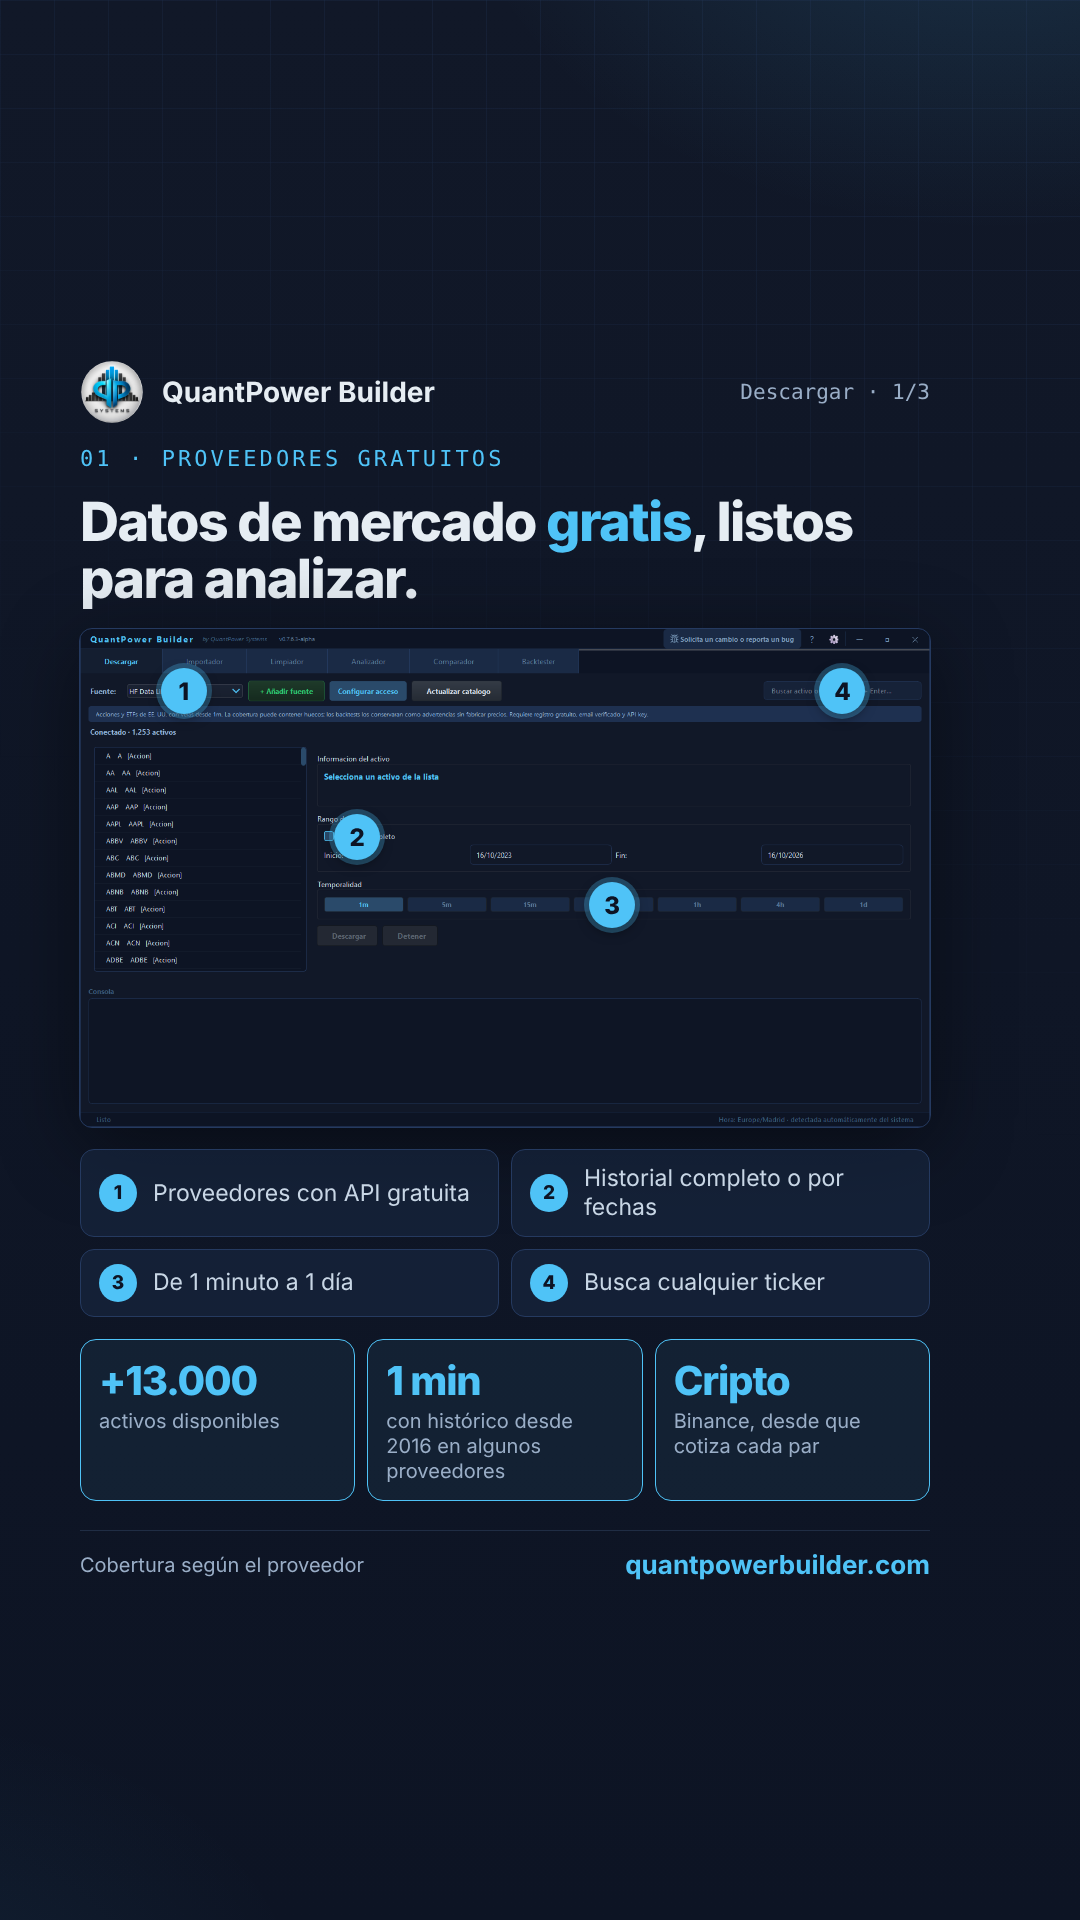
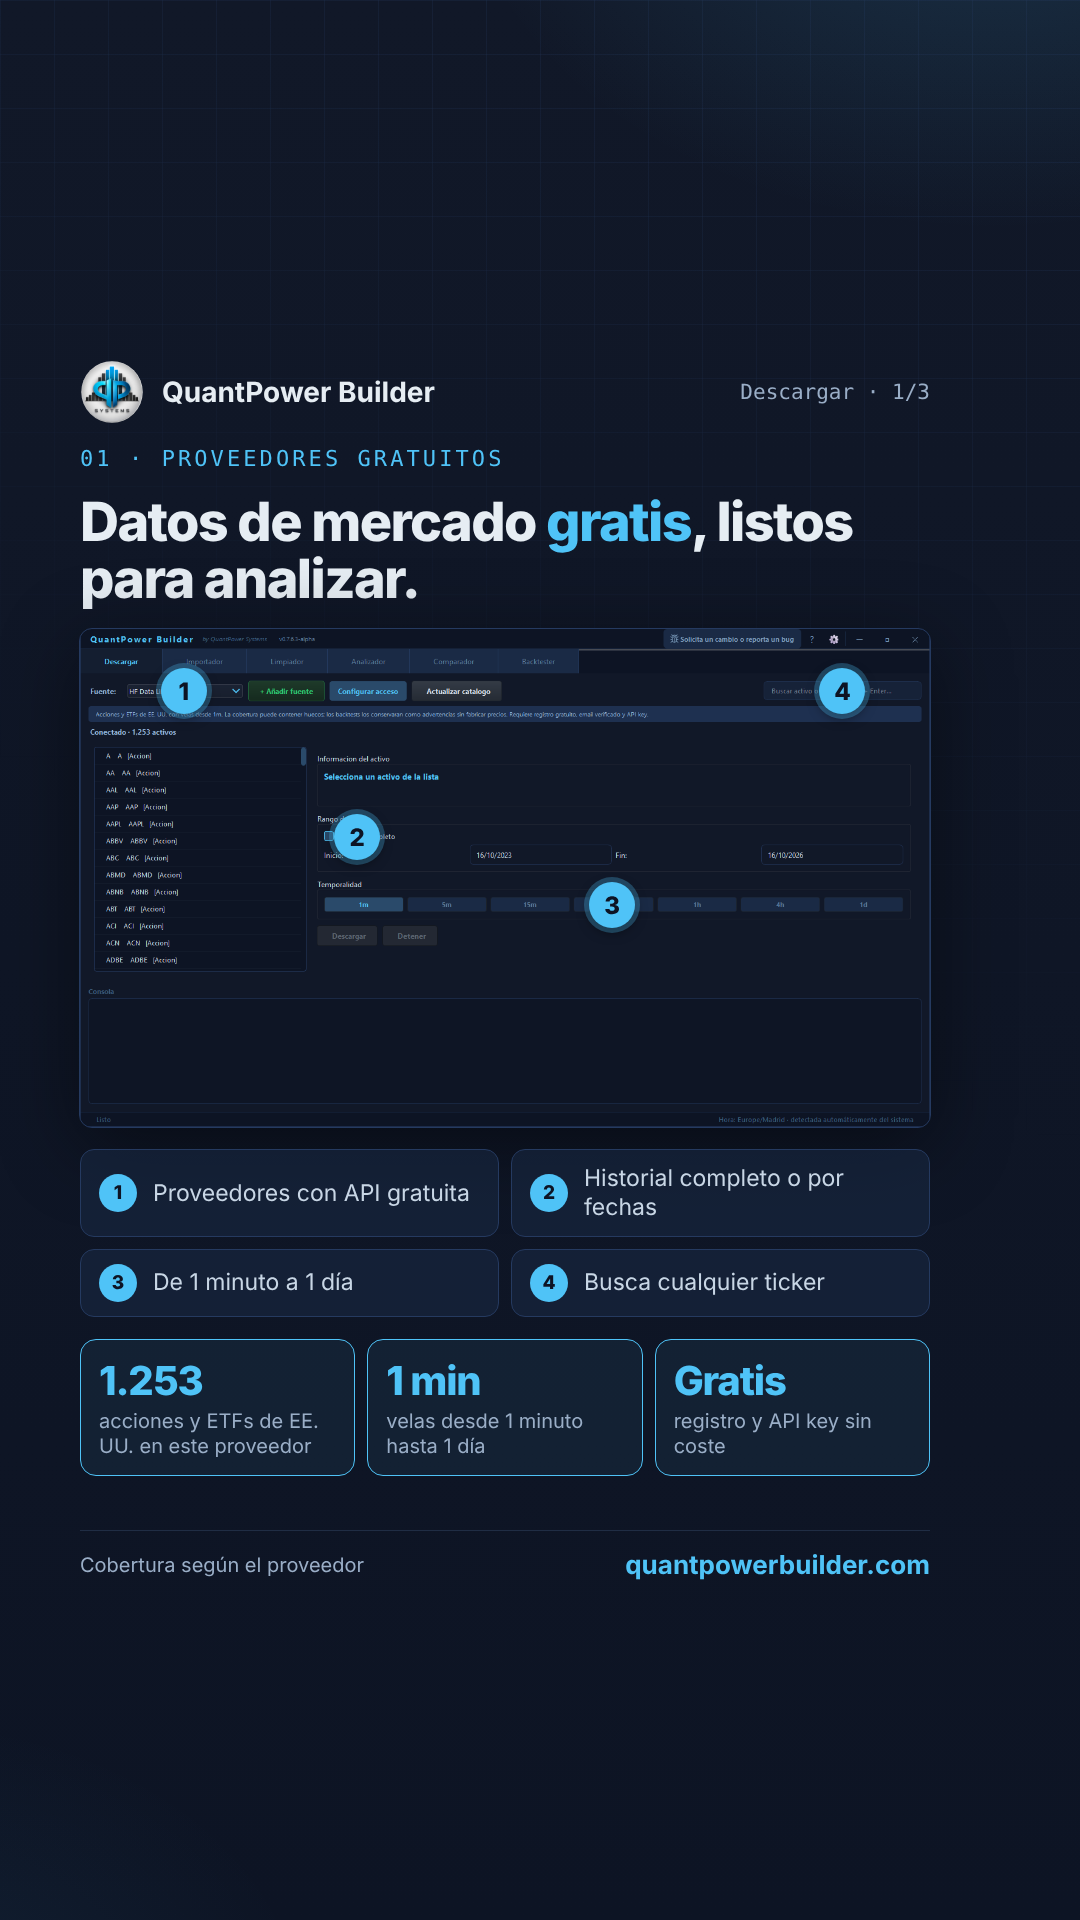
Descargar 1/3: cifras del proveedor de la captura, sin mezclar otros proveedores
Claude-Session: https://claude.ai/code/session_01HHLZi1SgtUefWHesdsfYTT

Changed region(s): [[0.0917, 0.6875, 0.275, 0.7812], [0.3361, 0.7188, 0.5194, 0.7812], [0.6417, 0.7188, 0.7944, 0.7812]]

diff --git a/redes/08-descargar-datos/publicacion.html b/redes/08-descargar-datos/publicacion.html
@@ -96,9 +96,9 @@
     <div class="leg"><i>4</i>Busca cualquier ticker</div>
   </div>
   <div class="stats">
-    <div class="stat"><strong>+13.000</strong><span>activos disponibles</span></div>
-    <div class="stat"><strong>1 min</strong><span>con histórico desde 2016 en algunos proveedores</span></div>
-    <div class="stat"><strong>Cripto</strong><span>Binance, desde que cotiza cada par</span></div>
+    <div class="stat"><strong>1.253</strong><span>acciones y ETFs de EE. UU. en este proveedor</span></div>
+    <div class="stat"><strong>1 min</strong><span>velas desde 1 minuto hasta 1 día</span></div>
+    <div class="stat"><strong>Gratis</strong><span>registro y API key sin coste</span></div>
   </div>
   <div class="foot"><span>Cobertura según el proveedor</span><b>quantpowerbuilder.com</b></div>
 </section>

diff --git a/redes/08-descargar-datos/texto-post.md b/redes/08-descargar-datos/texto-post.md
@@ -8,9 +8,9 @@ tres publicaciones sueltas: cada una lleva logo, número y enlace.
 - `capturas/` → capturas recortadas por el borde de la ventana. Los correos están
   sustituidos por «tu-cuenta@…».
 
-> Revisa las cifras antes de publicar: +13.000 activos, velas de 1 minuto desde
-> 2016 en algunos proveedores y cripto de Binance desde que cotiza cada par
-> (datos facilitados por el equipo; dependen del proveedor).
+> Las cifras de la imagen 1 son las del proveedor que aparece en la captura
+> (acciones y ETFs de EE. UU., 1.253 activos, velas desde 1 minuto, registro y
+> API key gratuitos). No se mezclan con las de otros proveedores.
 
 ## TikTok
 
@@ -18,7 +18,7 @@ tres publicaciones sueltas: cada una lleva logo, número y enlace.
 **Descripción:** 📥 Datos de mercado gratis para tu backtesting · Descargar 1/3 #QuantPowerBuilder
 
 **Comentario fijado:**
-QuantPower Builder descarga datos desde proveedores con API gratuita: +13.000 activos, velas desde 1 minuto (con histórico desde 2016 en algunos proveedores) y cripto de Binance desde que cotiza cada par. 👉 quantpowerbuilder.com
+QuantPower Builder descarga datos desde proveedores con API gratuita. En la captura, acciones y ETFs de EE. UU. con velas desde 1 minuto: eliges activo, fechas y temporalidad, y a descargar. 👉 quantpowerbuilder.com
 #QuantPowerBuilder #trading #backtesting #datosdemercado #tradingalgoritmico
 
 ### 2/3 · Tus almacenamientos
@@ -40,7 +40,7 @@ QuantPower Builder abre tus ZIP, reconoce los CSV y TXT con OHLC y te deja elegi
 📥 Tus datos de mercado, en un solo sitio.
 
 La pestaña Descargar de QuantPower Builder reúne todo lo que necesitas antes de analizar:
-1⃣ Proveedores con API gratuita: +13.000 activos y velas desde 1 minuto.
+1⃣ Proveedores con API gratuita, con velas desde 1 minuto.
 2⃣ Tus propios almacenamientos: Google Drive, MEGA, OneDrive, Dropbox, SFTP o carpeta local.
 3⃣ Explora tus ZIP y descarga solo los archivos que necesitas.
 
